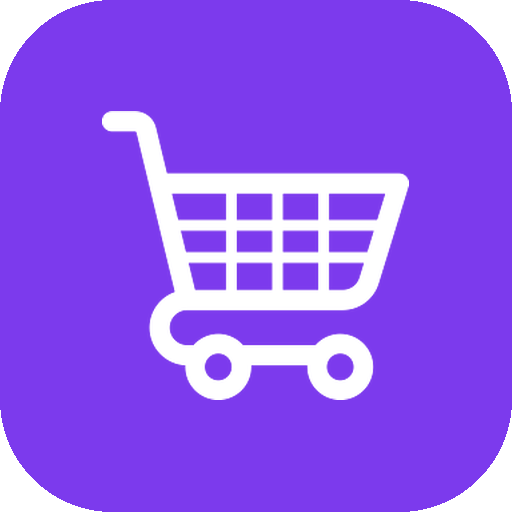
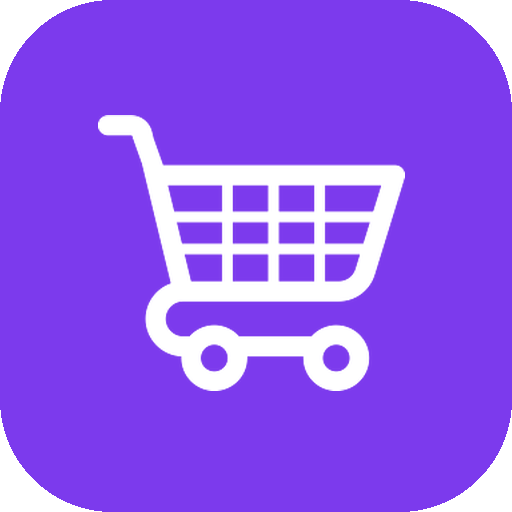
fix: ícono centrado por su peso visual y manija más baja (v1.15)
Claude-Session: https://claude.ai/code/session_01DhVgd7Et6QmT3shziodnjZ

Changed region(s): [[0.1875, 0.2188, 0.8125, 0.7812]]

diff --git a/sw.js b/sw.js
@@ -1,5 +1,5 @@
 // Permite instalar la app y abrirla sin internet. Las ventas las guarda Firebase (con su propia caché).
-const CACHE = 'pos-v1.14';
+const CACHE = 'pos-v1.15';
 const LIBS = 'libs-v1'; // Firebase y la fuente: archivos con versión fija
 const FOTOS = 'fotos-v1';
 const SHELL = ['./', './index.html', './config.js', './manifest.webmanifest', './icono-192.png', './icono-512.png', './logo-carrito.png',

diff --git a/js/version.js b/js/version.js
@@ -1,2 +1,2 @@
 // Sube en cada cambio publicado, junto con CACHE en sw.js.
-export const APP_VERSION = 'v1.14';
+export const APP_VERSION = 'v1.15';

diff --git a/docs/superpowers/decisiones-fase1.md b/docs/superpowers/decisiones-fase1.md
@@ -117,3 +117,4 @@ Final: minor (deferred): 'Cobros por forma de pago' en Reportes no incluye abono
 Final: minor (deferred): la vendedora descarga todo su historial de ventas en Inicio (filtro de fecha en el teléfono)
 Final: minor (deferred): editar una comisión porcentual en Ajustes la convierte en fija
 Suite final: npm test 99/99 · e2e 59/59
+- Prueba intermitente: entrar.cjs 'PC: Mi cuenta → Cerrar sesión' falló 2 veces en ~70 corridas (timeout 5 s esperando la barra tras volver a entrar), solo con el equipo ocupado; sin causa encontrada en 40 repeticiones aisladas con diagnóstico. Pendiente de revisar.
